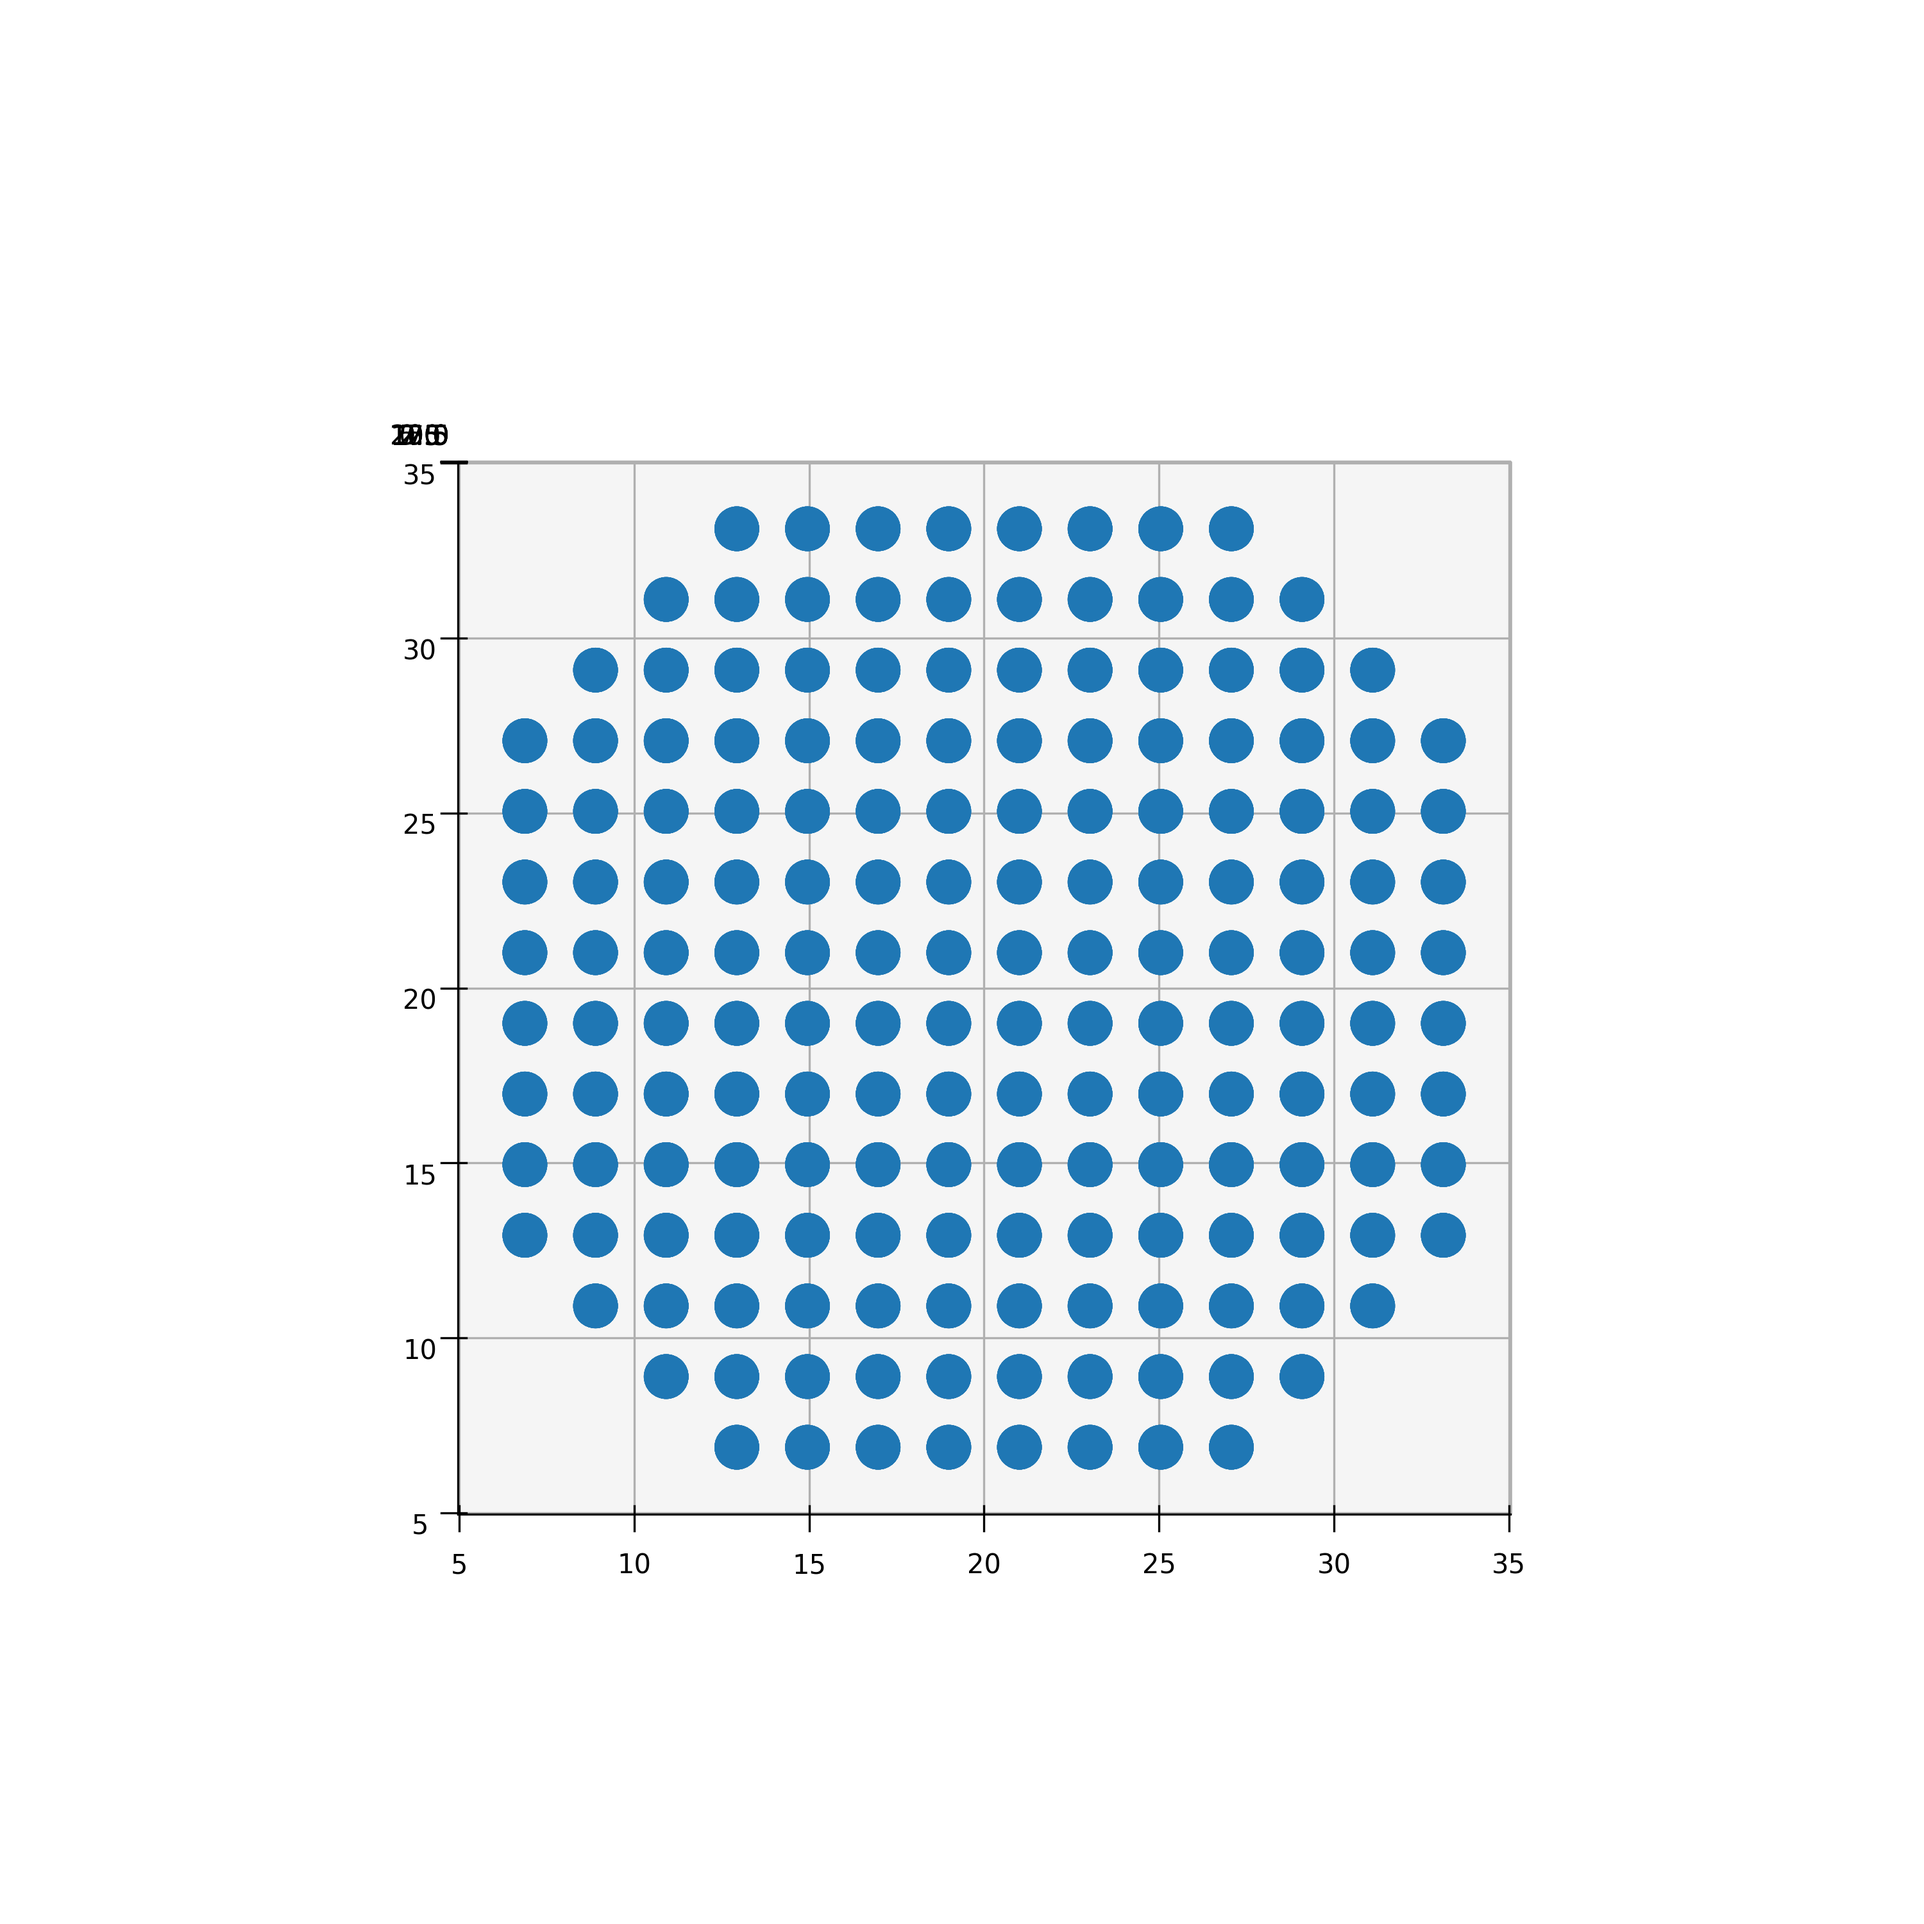
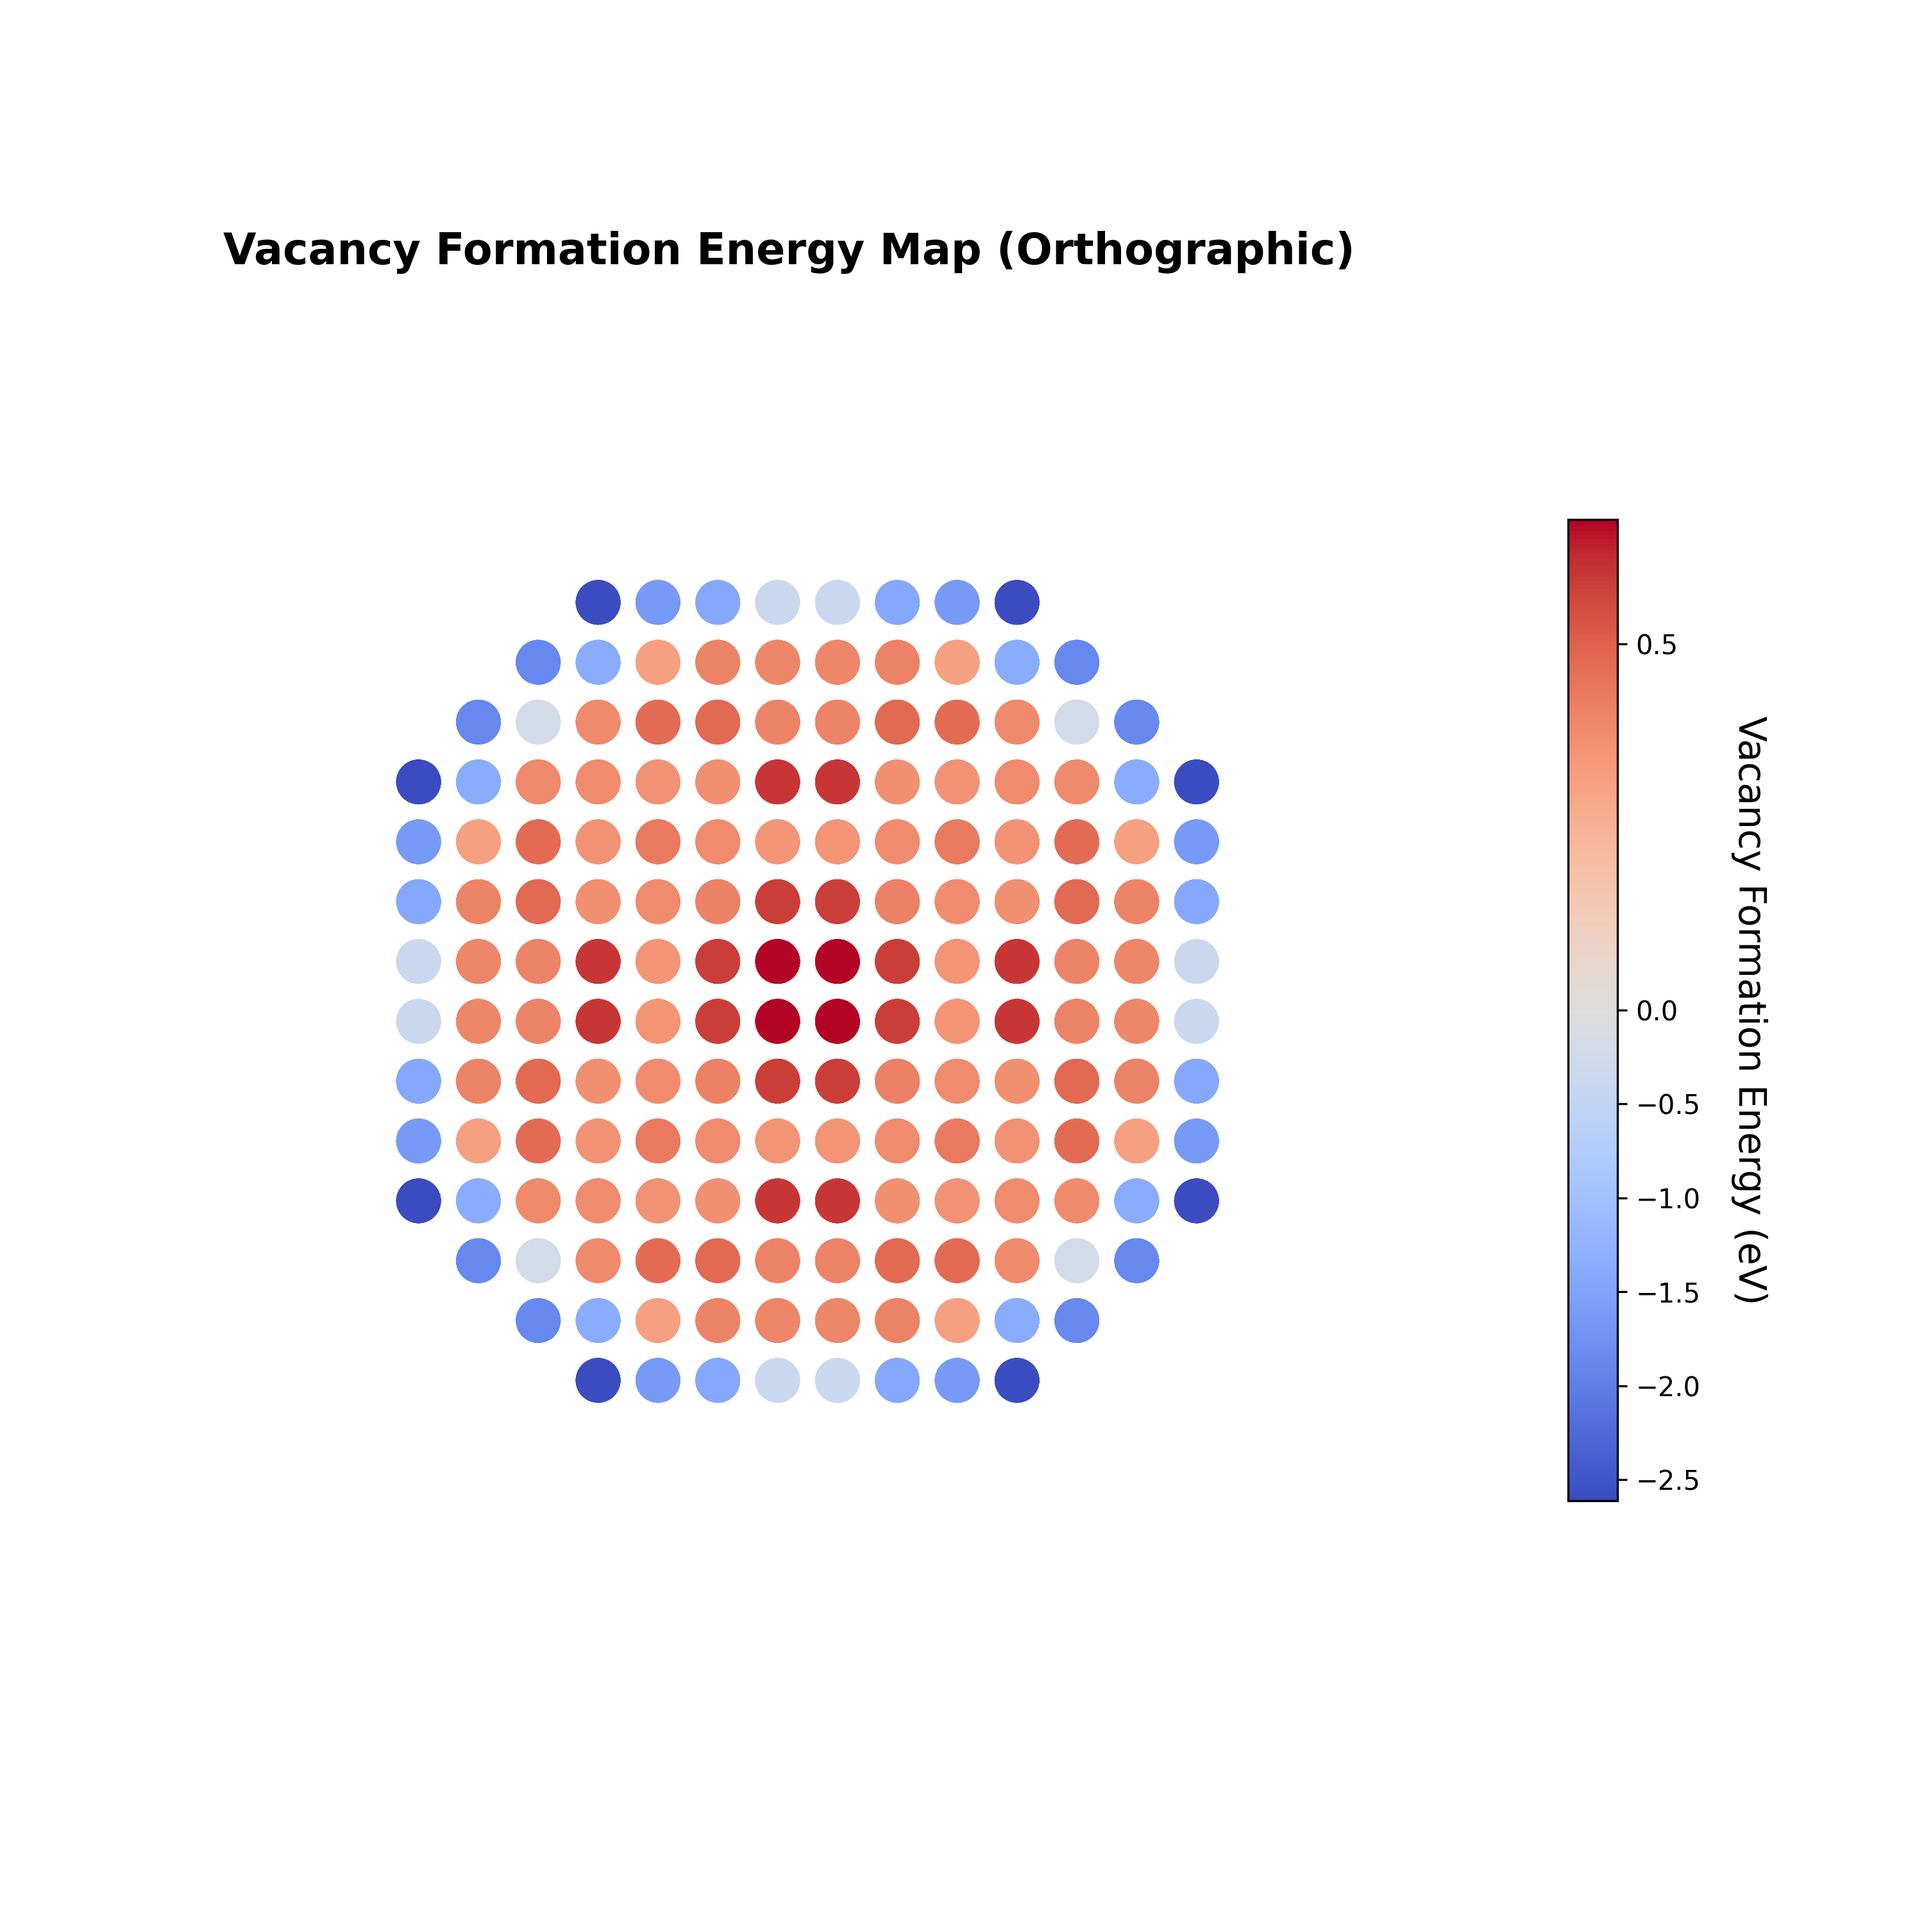
revised plot_map_v2.py

diff --git a/plot_map_v2.py b/plot_map_v2.py
@@ -2,60 +2,80 @@ import numpy as np
 import matplotlib.pyplot as plt
 from ase.io import read
 import pandas as pd
+from matplotlib.colors import Normalize
 import os
-from matplotlib.colors import TwoSlopeNorm
+import sys
 
+ANCHOR_EF = 0.67
 
-def handle_symmetry():
-    ...
+def handle_symmetry(atoms):
+    pos = atoms.get_positions()
+    cx, cy = np.mean(pos[:, 0]), np.mean(pos[:, 1])
+    r_dist = np.sqrt((pos[:, 0] - cx)**2 + (pos[:, 1] - cy)**2)
+    theta = np.arctan2(pos[:, 1] - cy, pos[:, 0] - cx)
+    
+    theta_deg = np.degrees(theta) % 360
+    theta_fold = np.minimum(theta_deg % 90, 90 - (theta_deg % 90))
+    d_surf = np.max(r_dist) - r_dist
+    return r_dist, theta_fold, d_surf
 
-def get_colors():
-    ...
+def get_colors(atoms, df):
+    _, theta_fold, d_surf = handle_symmetry(atoms)
+    mapped_values = np.zeros(len(atoms))
+    
+    for i in range(len(atoms)):
+        matches = df[np.abs(df['d_side'] - d_surf[i]) < 0.1]
+        if len(matches) == 0:
+            mapped_values[i] = np.nan
+        elif len(matches) == 1:
+            mapped_values[i] = matches.iloc[0]['formation_e']
+        else:
+            if theta_fold[i] > 22.5:
+                mapped_values[i] = matches['formation_e'].min()
+            else:
+                mapped_values[i] = matches['formation_e'].max()
+    return mapped_values
 
-def plot_vacancy_and_structure(file_name_vasp):
+def plot_vacancy_and_structure(file_name_vasp, csv_path):
+    if not os.path.exists(file_name_vasp) or not os.path.exists(csv_path):
+        return
 
-    # read structure
-    atoms = read(file_name_vasp)
+    try:
+        atoms = read(file_name_vasp)
+    except:
+        return
 
-    #if len(atoms)!=1:
-    #    atoms=atoms[-1]
+    if 'X' in atoms.get_chemical_formula():
+        atoms.set_chemical_symbols(['Al'] * len(atoms))
 
-    # get positions
-    x,y,z = atoms.get_positions()[:, 0], atoms.get_positions()[:, 1], atoms.get_positions()[:, 2]
+    df = pd.read_csv(csv_path)
+    center_e = df.loc[df['d_side'].idxmax(), 'total_e']
+    df['formation_e'] = ANCHOR_EF + (df['total_e'] - center_e) * (len(atoms) - 1)
 
+    final_values = get_colors(atoms, df)
+    valid = final_values[~np.isnan(final_values)]
+    
+    if len(valid) == 0: return
 
-    # todo: get colors
-    #get_colors()
+    norm = Normalize(vmin=np.min(valid), vmax=np.max(valid))
 
-
-
-    # todo: prepare plot
-    #vmin = np.nanmin(final_values)
-    #vmax = np.max(final_values)
-    #norm = TwoSlopeNorm(vmin=vmin, vcenter=0.0, vmax=vmax)
-    # todo: symmetry adapations
-    #handle_symmetry()
-
-    # plot
     fig = plt.figure(figsize=(10, 10))
     ax = fig.add_subplot(111, projection='3d')
-
-    # 【關鍵修改】設定為正交投影 (Orthographic)
     ax.set_proj_type('ortho')
 
-    sc = ax.scatter(x,y,z,
-                    #c=final_values, cmap='coolwarm', norm=norm,
-                    s=280, edgecolors='none', alpha=1.0)
+    sc = ax.scatter(atoms.positions[:, 0], atoms.positions[:, 1], atoms.positions[:, 2],
+                    c=final_values, cmap='coolwarm', norm=norm, s=280, edgecolors='none', alpha=1.0)
 
-    #cbar = fig.colorbar(sc, ax=ax, shrink=0.6, pad=0.05)
-    #cbar.set_label('Vacancy Formation Energy (eV)', fontsize=14, rotation=270, labelpad=25)
-
-    #ax.set_title(f"Vacancy Formation Energy Map (Orthographic)\n[Internal Ref: Center = {ANCHOR_EF} eV, White = 0 eV]", fontsize=16, fontweight='bold', pad=20)
-    #ax.set_axis_off()
+    cbar = fig.colorbar(sc, ax=ax, shrink=0.6, pad=0.05)
+    cbar.set_label('Vacancy Formation Energy (eV)', fontsize=14, rotation=270, labelpad=25)
+    
+    ax.set_title("Vacancy Formation Energy Map (High Contrast)", fontsize=16, fontweight='bold', pad=20)
+    ax.set_axis_off()
     ax.view_init(elev=90, azim=-90)
 
     plt.subplots_adjust(top=0.9, bottom=0.05, left=0.05, right=0.95)
-    outfile = "vacancy_formation_energy_ortho.png"
-    plt.savefig(outfile, dpi=300)
-    print(f"Saved as {outfile} (Orthographic Projection)")
+    plt.savefig("vacancy_map_final.png", dpi=300)
     plt.show()
+
+if __name__ == "__main__":
+    plot_vacancy_and_structure("poscar.vasp", "vacancy_data.csv")
